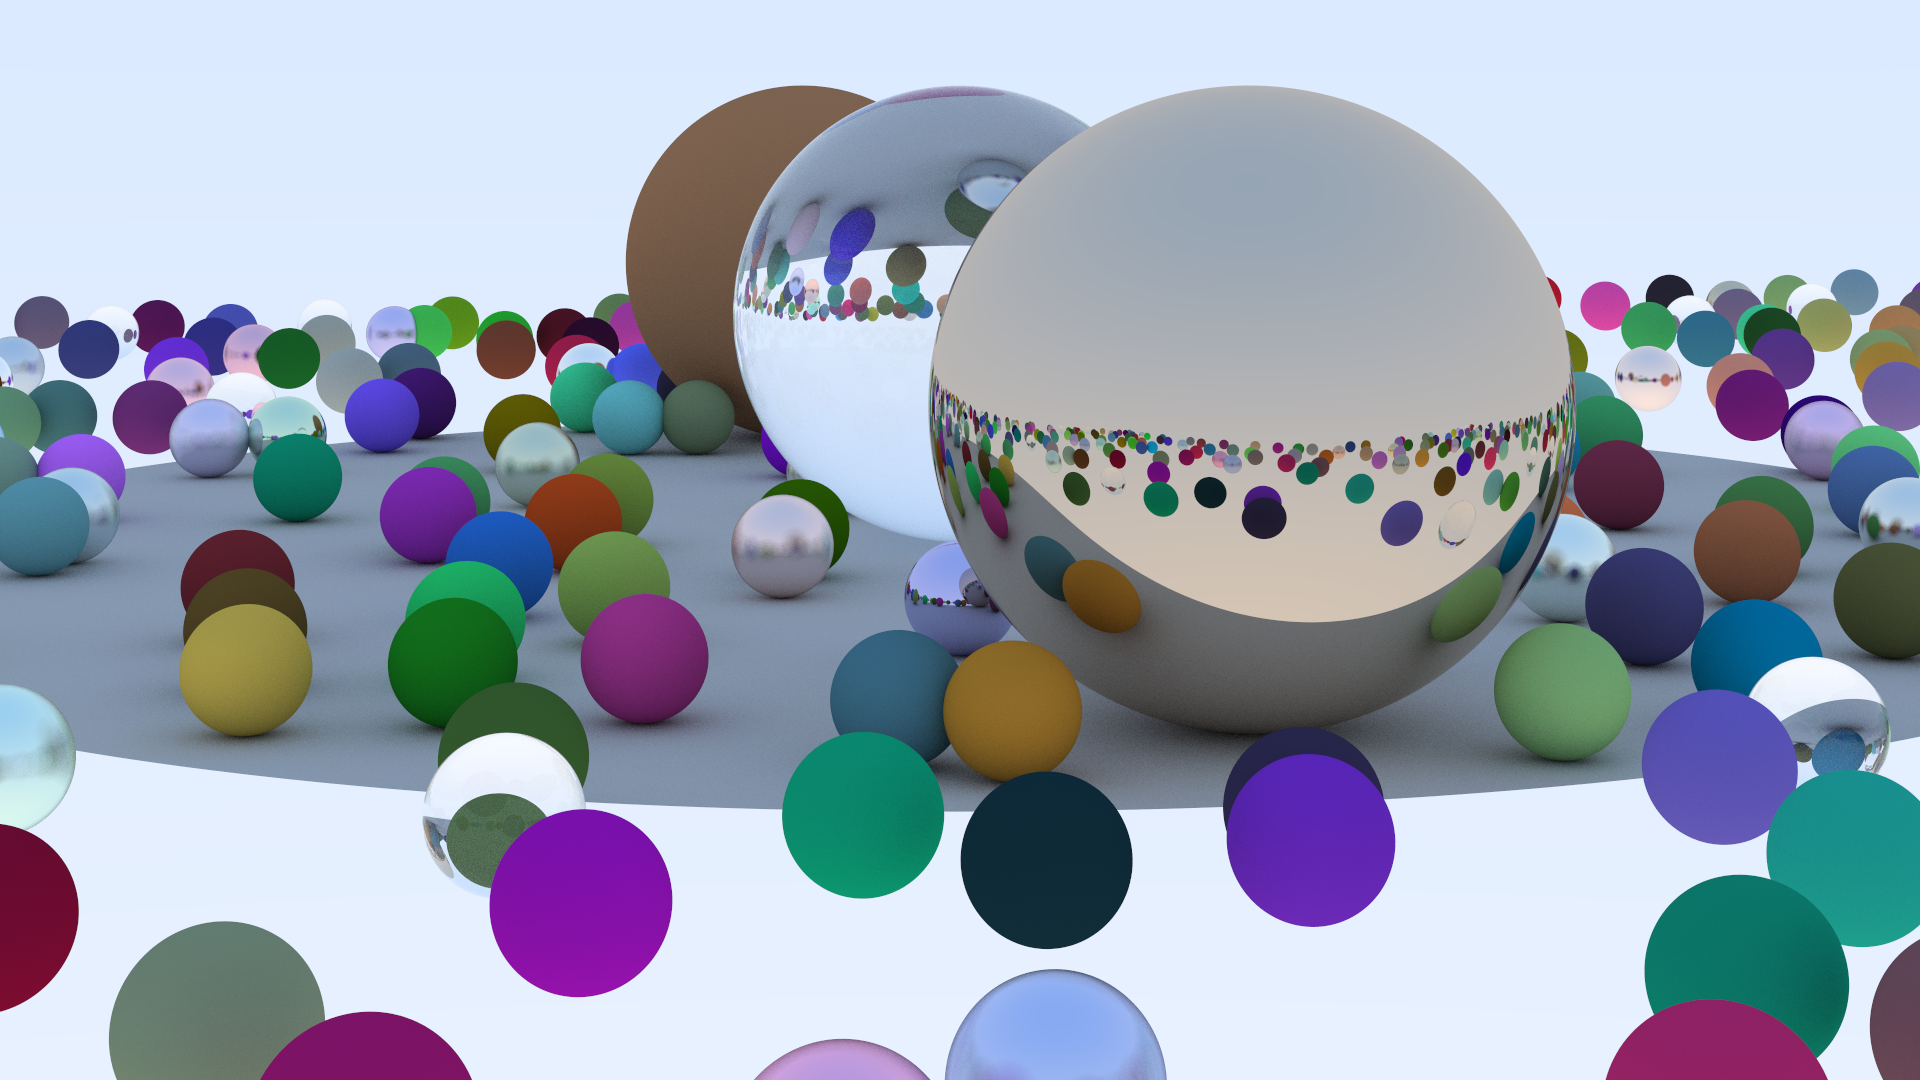
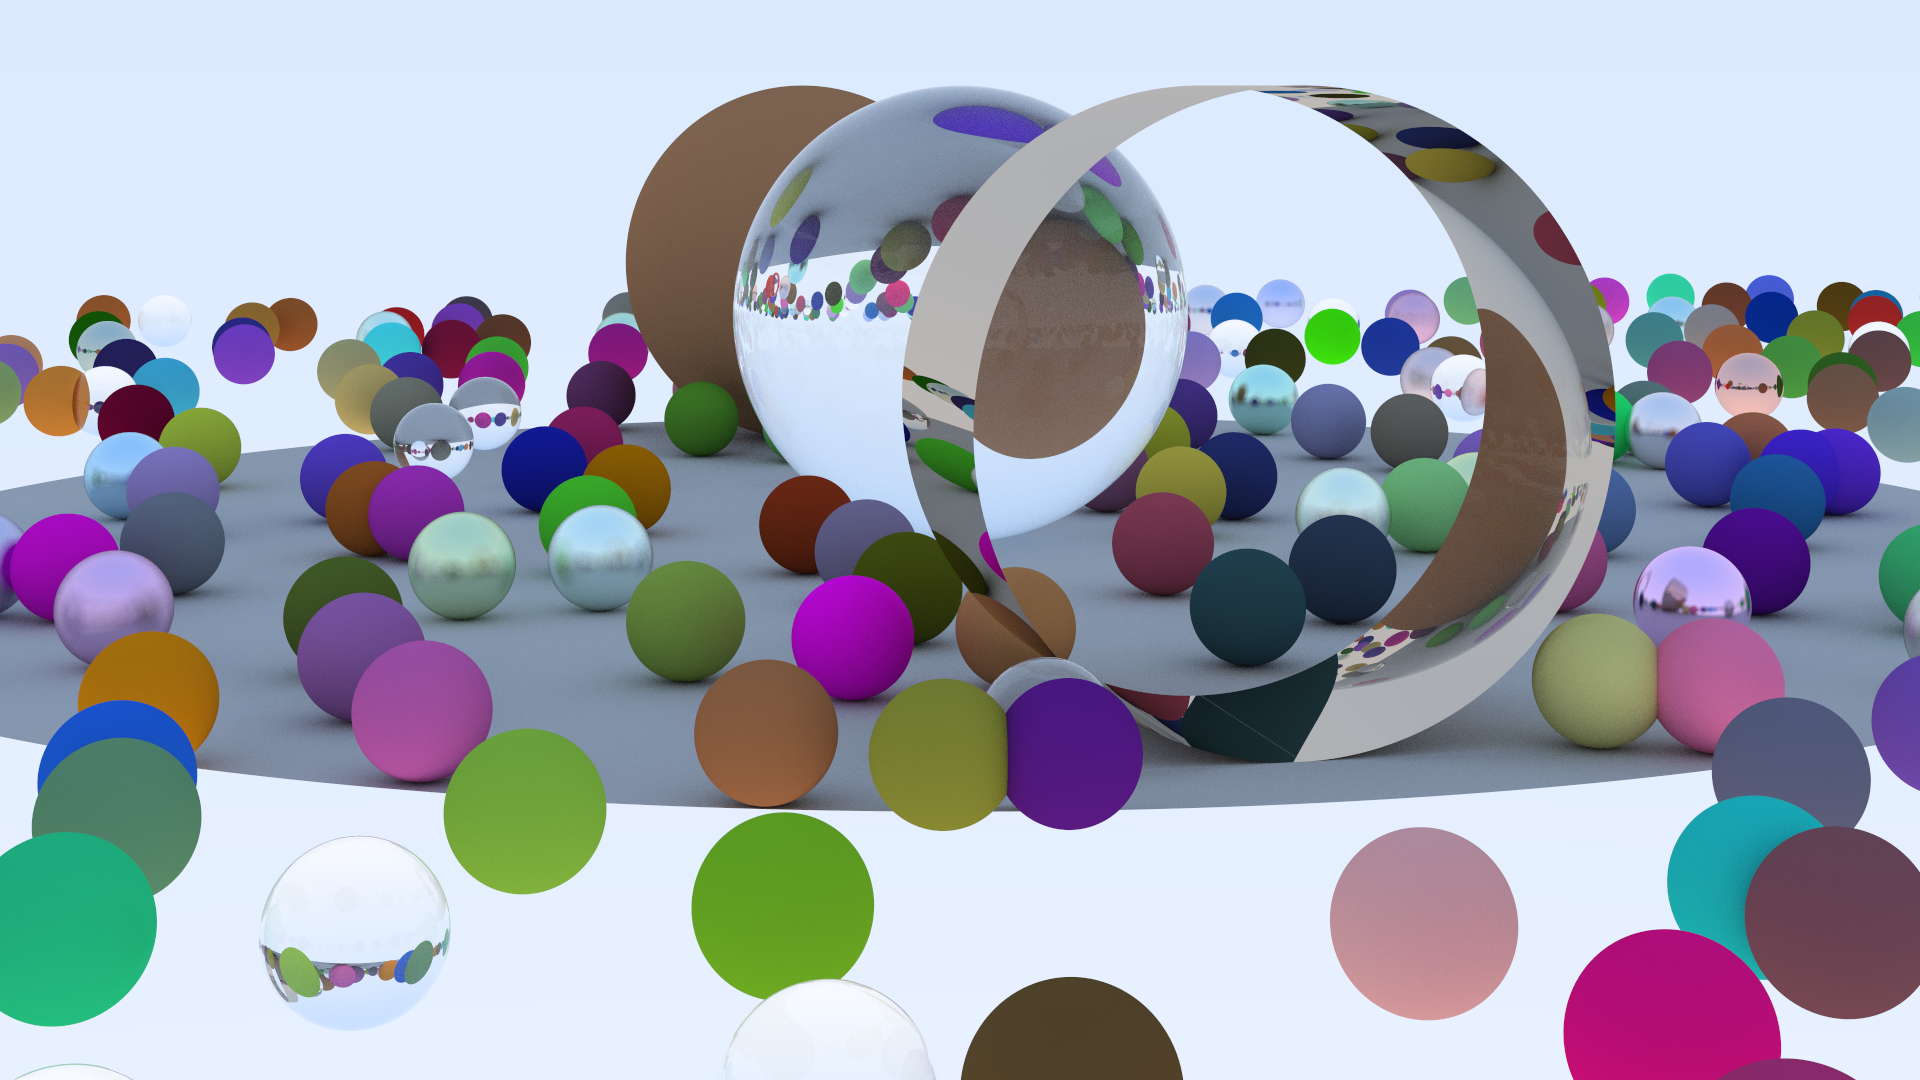
Added cylinder to shaders

diff --git a/src/main/java/Cylinder.java b/src/main/java/Cylinder.java
@@ -15,36 +15,6 @@ public class Cylinder extends Object{
         this.mat = mat;
     }
 
-    public RayHit getIntersection1(Ray r, Interval interval){
-        Vec3 aVec = VectorOperations.subtract(r.direction(), VectorOperations.scale(VectorOperations.dot(r.direction(), axis), axis));
-        Vec3 delP = VectorOperations.subtract(r.origin(), centre);
-        Vec3 cVec = VectorOperations.subtract(delP, VectorOperations.scale(VectorOperations.dot(delP, axis), axis));
-        float a = VectorOperations.dot(aVec, aVec);
-        float b = 2 * VectorOperations.dot(aVec, cVec);
-        float c = VectorOperations.dot(cVec, cVec) - (radius*radius);
-        float discrim = (b * b) - (4 * a * c);
-        if(discrim < 0){
-            return new RayHit();
-        }
-        boolean firstValid = true;
-        float root =(float) (-b - Math.sqrt(discrim))/(2*a);
-        if(!interval.surrounds(root)){
-            firstValid = false;
-            root = (float)(-b + Math.sqrt(discrim))/(2*a);
-            if(!interval.surrounds(root)){
-                return new RayHit();
-            }
-        }
-        do{
-            Vec3 point = r.pointAt(root);
-            float y = VectorOperations.dot(VectorOperations.subtract(point, centre), axis);
-            if(y >= -height/2 && y<= height/2){
-                //The intersection is valid;
-            }
-        }while(firstValid = false);
-        return new RayHit();
-    }
-
     public RayHit getIntersection(Ray r, Interval interval) {
         Vec3 aVec = VectorOperations.subtract(r.direction(), VectorOperations.scale(VectorOperations.dot(r.direction(), axis), axis));
         Vec3 delP = VectorOperations.subtract(r.origin(), centre);
@@ -66,8 +36,8 @@ public class Cylinder extends Object{
         // Check it hits the cylinder within the height
         if (a > 1e-6f) {
             //not shooting straight down the middle of the cylinder
-            float sqrtD = (float) Math.sqrt(discrim);
-            float[] roots = { (-b - sqrtD) / (2 * a), (-b + sqrtD) / (2 * a) };
+            float sqrtDiscrim = (float) Math.sqrt(discrim);
+            float[] roots = { (-b - sqrtDiscrim) / (2 * a), (-b + sqrtDiscrim) / (2 * a) };
 
             for (int i = 0; i < 2; i++) {
                 if (interval.surrounds(roots[i]) && roots[i] < closestT) {
@@ -84,13 +54,13 @@ public class Cylinder extends Object{
         }
         //Check if it hits a cap of the cylinder
         if(caps) {
-            float denom = VectorOperations.dot(r.direction(), axis);
-            if (Math.abs(denom) > 1e-6) {
+            float dirToAxis = VectorOperations.dot(r.direction(), axis);
+            if (Math.abs(dirToAxis) > 1e-6) {
                 float[] capY = {height / 2.0f, -height / 2.0f};
                 Vec3[] capNormals = {axis, VectorOperations.scale(-1, axis)};
 
                 for (int i = 0; i < 2; i++) {
-                    float tCap = (capY[i] - VectorOperations.dot(delP, axis)) / denom;
+                    float tCap = (capY[i] - VectorOperations.dot(delP, axis)) / dirToAxis;
 
                     if (interval.surrounds(tCap) && tCap < closestT) {
                         Vec3 pCap = r.pointAt(tCap);

diff --git a/src/main/java/Main.java b/src/main/java/Main.java
@@ -227,11 +227,11 @@ public class Main {
                 0, 0, 0, 0,
                 1, 0, 0, 0);
 
-        addObject(buf, 0, 1, 0, 0,
+        addObject(buf, 2, 1, 0, 0,
                 0.7f, 0.6f, 0.5f, 0,
                 4, 1, 0, 0,
-                0, 0, 0, 0,
-                1, 0, 0, 0);
+                1, 0, 0, 0,
+                1, 1, 0, 0);
 
 
     }
